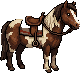
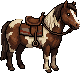
Mounts: the pony's saddle without gaps, the tiger's paws crossing
The author: on the pony a piece of the saddle falls into the background,
even with a rider. The pony was drawn with its back notched behind and
in front of the saddle, so the background showed there; tools/mount-trots.py
fills such gaps ("patch", moved with the saddle frame by frame) with the
coat and an outline on top, and the Stajnia's picture is filled the same
way. The tiger's walk: the two legs of a pair swing around one place,
halfway between where the paws stand and under the hips or shoulders,
which stand one above the other, so the paws pass each other.

Claude-Session: https://claude.ai/code/session_01EFZUMqpHps3KDRogHBzjf3

Changed region(s): [[0.25, 0.3014, 0.375, 0.3836], [0.475, 0.3288, 0.525, 0.411]]

diff --git a/tools/mount-trots.py b/tools/mount-trots.py
@@ -21,7 +21,13 @@ A "trot" in art/mounts.json:
          posed walks of tools/animate-mounts-skeleton.mjs are in
          mounts-skeleton);
   "seat_in": "start" when "seat" is the saddle in the start frame
-             (art/references/mounts) rather than in the first frame.
+             (art/references/mounts) rather than in the first frame;
+  "patch": gaps in the mount where the background shows through (the
+           pony's back between its rump and saddle): boxes [left, top,
+           right, bottom) of the start frame, moved in each frame with the
+           saddle; a clear pixel in one with the mount on both sides and
+           below takes the coat colour "coat", the "outline" where it meets
+           the clear above.
 
     python3 -I tools/mount-trots.py [DRAFTS_DIR]
 
@@ -90,6 +96,32 @@ def clean(frame, rules):
     return frame
 
 
+def patch(frame, rules, shift):
+    px = frame.load()
+    W, H = frame.size
+    opaque = lambda x, y: 0 <= x < W and 0 <= y < H and px[x, y][3] >= 128
+    for rule in rules:
+        x0, y0, x1, y1 = rule['box']
+        dx, dy = shift
+        filled = []
+        for y in range(y0 + dy, y1 + dy):
+            for x in range(x0 + dx, x1 + dx):
+                if opaque(x, y) or not (0 <= x < W and 0 <= y < H):
+                    continue
+                left = any(opaque(x - k, y) for k in range(1, x - (x0 + dx) + 4))
+                right = any(opaque(x + k, y) for k in range(1, (x1 + dx) - x + 4))
+                below = any(opaque(x, y + k) for k in range(1, 6))
+                if left and right and below:
+                    filled.append((x, y))
+        coat, line = walk.rgb(rule['coat']), walk.rgb(rule['outline'])
+        for (x, y) in filled:
+            px[x, y] = (*coat, 255)
+        for (x, y) in filled:
+            if not opaque(x, y - 1):
+                px[x, y] = (*line, 255)
+    return frame
+
+
 def main():
     drafts = sys.argv[1] if len(sys.argv) > 1 else os.path.join(ROOT, 'art', 'drafts', 'mounts-pixellab')
     config = json.load(open(os.path.join(ROOT, 'art', 'mounts.json'), encoding='utf8'))
@@ -111,6 +143,9 @@ def main():
             seats = ride.seats([start] + frames, tuple(trot['seat']))[1:]
         else:
             seats = ride.seats(frames, tuple(trot['seat']))
+        if trot.get('patch'):
+            sx, sy = trot['seat'] if trot.get('seat_in') == 'start' else seats[0]
+            frames = [patch(frame, trot['patch'], (x - sx, y - sy)) for frame, (x, y) in zip(frames, seats)]
         sheet = Image.new('RGBA', (width * len(frames), height), (0, 0, 0, 0))
         for index, frame in enumerate(frames):
             sheet.alpha_composite(frame, (index * width, 0))

diff --git a/tools/mount-gait.py b/tools/mount-gait.py
@@ -90,15 +90,22 @@ def gait(points, size, spec):
             'top': t,
             'rest': e,
         }
+    base = dict(pos)
     if spec.get('cross'):
         # The two legs of a pair swing around one place under the body, so
         # they pass each other, as a walking cat's paws do; the start frame
-        # may stand with them apart.
-        for pair in ('front', 'hind'):
+        # may stand with them apart. Seen from the side, the two hips (and
+        # the two shoulders) are one above the other.
+        for pair, top in (('front', 'SHOULDER'), ('hind', 'HIP')):
             left, right = legs[f'{pair}_left'], legs[f'{pair}_right']
-            x = (left['rest'][0] + right['rest'][0]) / 2
+            tx = (base[f'LEFT {top}'][0] + base[f'RIGHT {top}'][0]) / 2
+            # Halfway between where the paws stand and under the joint above,
+            # so a leg does not lean back the whole step.
+            x = ((left['rest'][0] + right['rest'][0]) / 2 + tx) / 2
             y = max(left['rest'][1], right['rest'][1])
             left['rest'] = right['rest'] = (x, y)
+            for side in ('LEFT', 'RIGHT'):
+                base[f'{side} {top}'] = (tx, base[f'{side} {top}'][1])
     length = sum(l['upper'] + l['lower'] for l in legs.values()) / 4
     stride = spec.get('stride', 0.45 if kind == 'trot' else 0.4) * length
     lift = spec.get('lift', 0.22 if kind == 'trot' else 0.14) * length
@@ -111,8 +118,8 @@ def gait(points, size, spec):
         # sway with each step (walk).
         dy = bob * math.cos(2 * math.pi * phi * (2 if kind == 'trot' else 4))
         head = nod * math.sin(2 * math.pi * phi * 2)
-        frame = dict(pos)
-        for label, (x, y) in pos.items():
+        frame = dict(base)
+        for label, (x, y) in base.items():
             frame[label] = (x, y + dy + (head if label in HEAD else 0))
         for leg, (top, mid, end) in LEGS.items():
             info = legs[leg]
